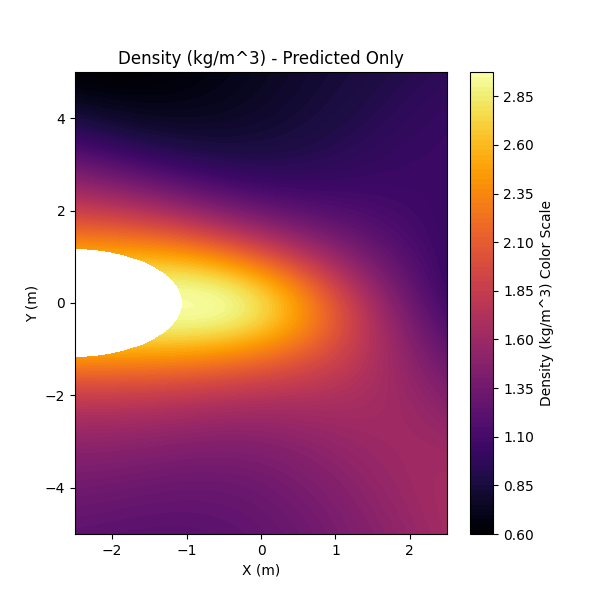
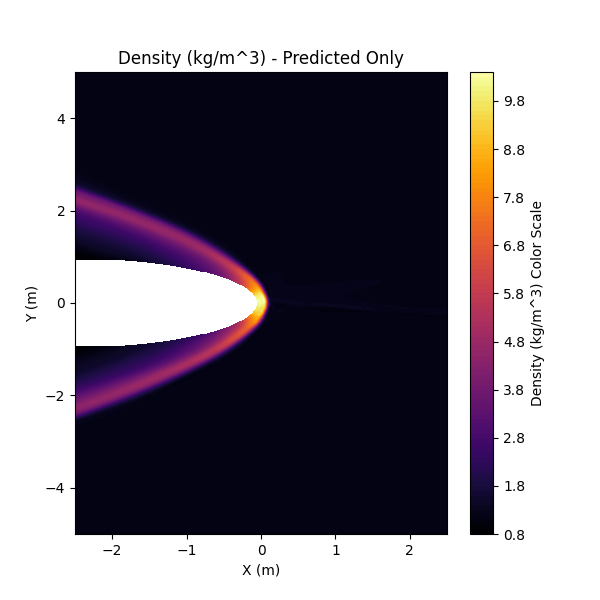
fixed it so predictions were showing accurate mask based on parameters.

diff --git a/src/postprocess/methods_postprocess.py b/src/postprocess/methods_postprocess.py
@@ -70,8 +70,8 @@ class MethodsPostprocess:
         zi_error = np.abs(zi_error)
 
             # Define semi-ellipse mask
-        a = 1.44  # replace with actual
-        b = 1.16  # replace with actual
+        a = self.df_true["a"].values[0]  # Assuming a is a constant for the ellipse
+        b = self.df_true["b"].values[0]  # Assuming b is a
         x0, y0 = -2.5, 0
         mask = ((xi - x0)**2 / a**2 + (yi - y0)**2 / b**2) <= 1
 
@@ -131,7 +131,7 @@ class MethodsPostprocess:
         plt.close()
         print(f"Saved comparison plot for {field} to {error_dir}/{safe_field}_comparison.png")
 
-    def _plot_predicted_only(self):
+    def _plot_predicted_only(self, params):
         self._define_ouput_folders()
         fields = ["Velocity[i] (m/s)", "Velocity[j] (m/s)", "Velocity[k] (m/s)",
                 "Absolute Pressure (Pa)", "Density (kg/m^3)"]
@@ -147,7 +147,7 @@ class MethodsPostprocess:
             zi = griddata((x, y), z, (xi, yi), method='cubic')
 
             # Mask ellipse
-            a, b = 1.44, 1.16
+            a, b = params[0], params[1]  # Assuming params contains a and b for the ellipse
             x0, y0 = -2.5, 0
             mask = ((xi - x0)**2 / a**2 + (yi - y0)**2 / b**2) <= 1
             zi[mask] = np.nan

diff --git a/src/inference/methods_inference.py b/src/inference/methods_inference.py
@@ -9,7 +9,7 @@ class MethodsInference:
     def _load_model(self, path, stats_path):
         with np.load(stats_path) as data:
             param_dim = data["params"].shape[1]
-        model = FusionDeepONet(coord_dim=3, param_dim=param_dim, hidden_size=32, num_hidden_layers=3, out_dim=5)
+        model = FusionDeepONet(coord_dim=3, param_dim=2, hidden_size=32, num_hidden_layers=3, out_dim=5)
         model.load_state_dict(torch.load(path, map_location=self.device))
         model.eval()
         return model

diff --git a/src/postprocess/base_postprocess.py b/src/postprocess/base_postprocess.py
@@ -5,7 +5,7 @@ class BasePostprocess:
         if path_true is None:
             self.df_true = None
         else:
-            self.df_true = pd.read_csv(path_true).drop(columns=param_columns)
+            self.df_true = pd.read_csv(path_true)#.drop(columns=param_columns)
         df_pred = pd.read_csv(path_pred)
         self.df_pred = df_pred[["Velocity[i] (m/s)", "Velocity[j] (m/s)", "Velocity[k] (m/s)",
                         "Absolute Pressure (Pa)", "Density (kg/m^3)", "X (m)", "Y (m)", "Z (m)"]]

diff --git a/config.py b/config.py
@@ -4,7 +4,7 @@ import yaml
 config = {
     "project_name": "semi_ellipse2",
     "batch_size": 1,
-    "num_epochs": 10,
+    "num_epochs": 50000,
     "output_dim": 5,
     "test_size": 0.2,
     "coord_dim": 3,
@@ -21,7 +21,7 @@ config = {
 }
 
 os.makedirs("configs", exist_ok=True)
-with open("configs/config_ellipse.yaml", "w") as f:
+with open("configs/config_ellipse_super_computer.yaml", "w") as f:
     yaml.dump(config, f)
 
     #CAN ADD LOGIC HERE TO MAKE MULTIPLE CONFIGS ON TOP OF A BASE CONFIG

diff --git a/src/surrogate/methods_surrogate.py b/src/surrogate/methods_surrogate.py
@@ -77,7 +77,7 @@ class MethodsSurrogate:
         print(f"Inference complete. Output saved to {self.predicted_output_file}.")
         print("Beginning postprocessing...")
         postprocess = Postprocess(self.project_name, path_true=None, path_pred=self.predicted_output_file, param_columns=self.param_columns)
-        postprocess._plot_predicted_only()
+        postprocess._plot_predicted_only(params)
 
         
     def _get_data_files(self):

diff --git a/main.py b/main.py
@@ -5,8 +5,8 @@ if __name__ == "__main__":
     
     
     ellipse_model = Surrogate(config_path="configs/config_ellipse.yaml")
-    ellipse_model._train()
+    # ellipse_model._train()
     # ellipse_model._infer_and_validate(file="Data/ellipse_data/ellipse_data_unseen2.csv")
-    # ellipse_model._inference(file="Data/ellipse_data/ellipse_data_unseen2.csv")
+    ellipse_model._inference(file="Data/ellipse_data/ellipse_data_unseen2.csv")
 
 

diff --git a/src/trainer/methods_trainer.py b/src/trainer/methods_trainer.py
@@ -74,6 +74,7 @@ class MethodsTrainer:
     def save_model(self):
         os.makedirs(f'Outputs/{self.project_name}/model', exist_ok=True)
         path = f'Outputs/{self.project_name}/model/fusion_deeponet.pt'
+        torch.save(self.model.state_dict(), path)
 
     def load_model(self, path):
         self.model.load_state_dict(torch.load(path))
